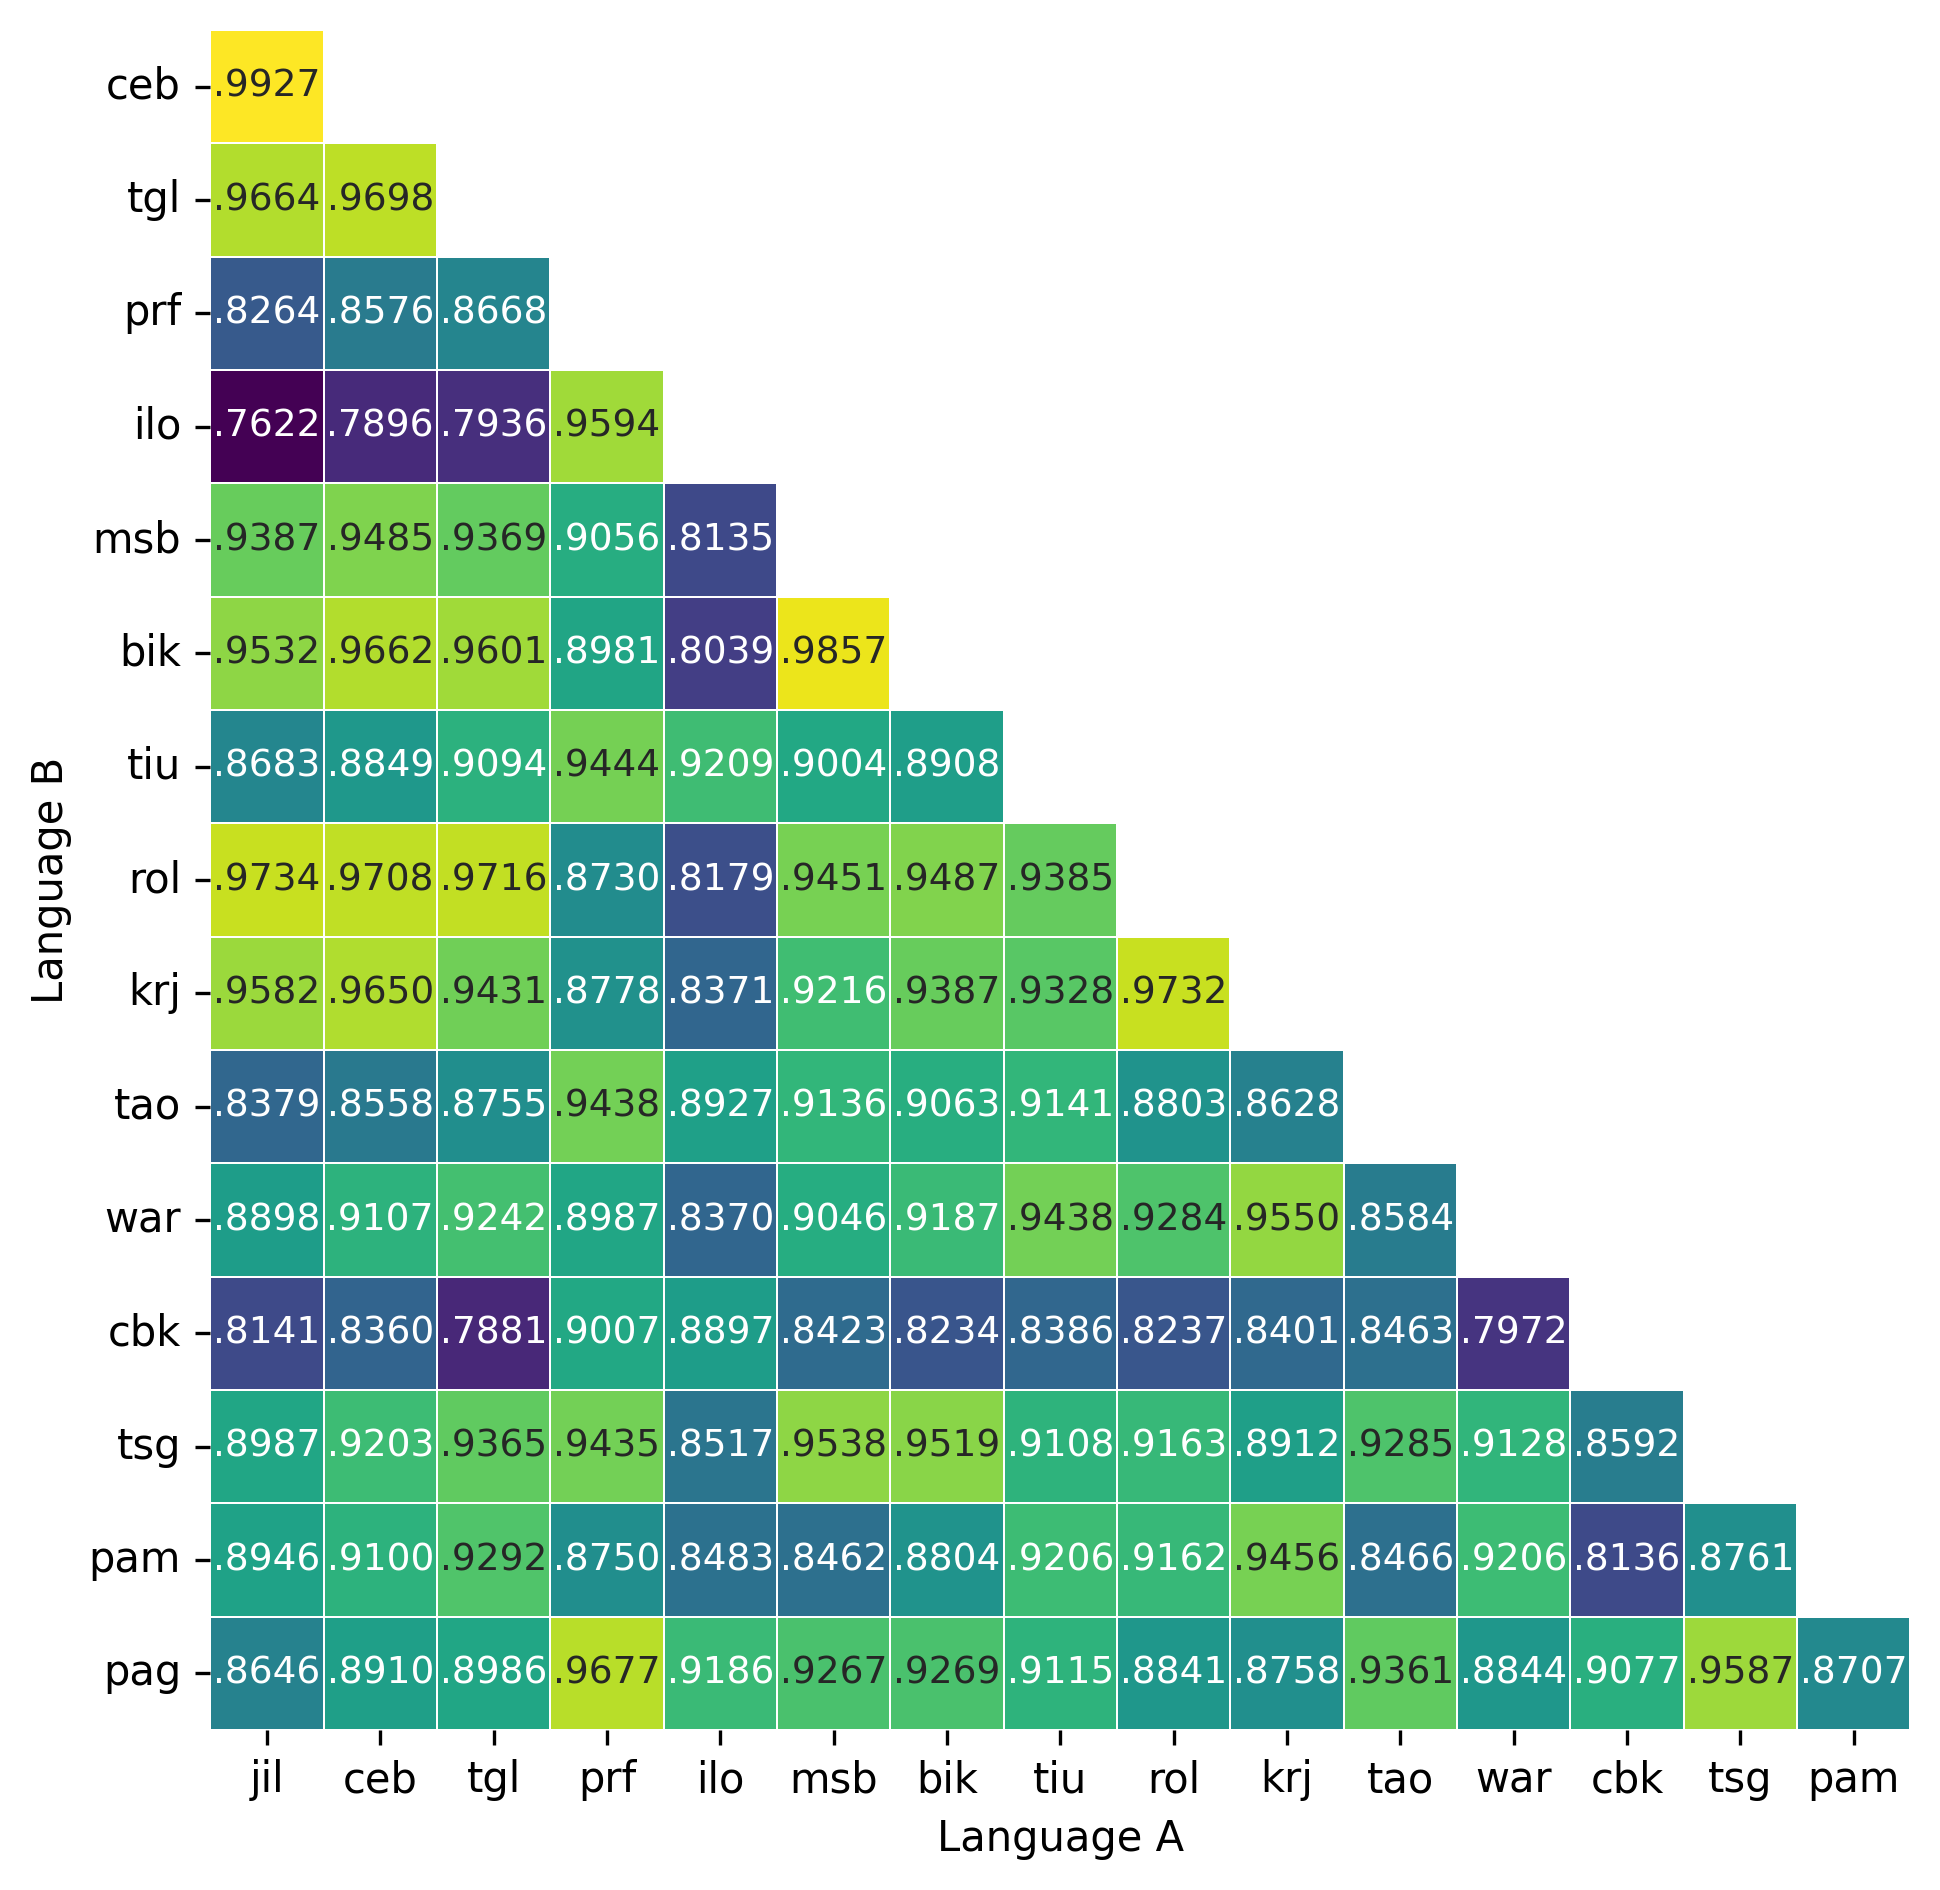
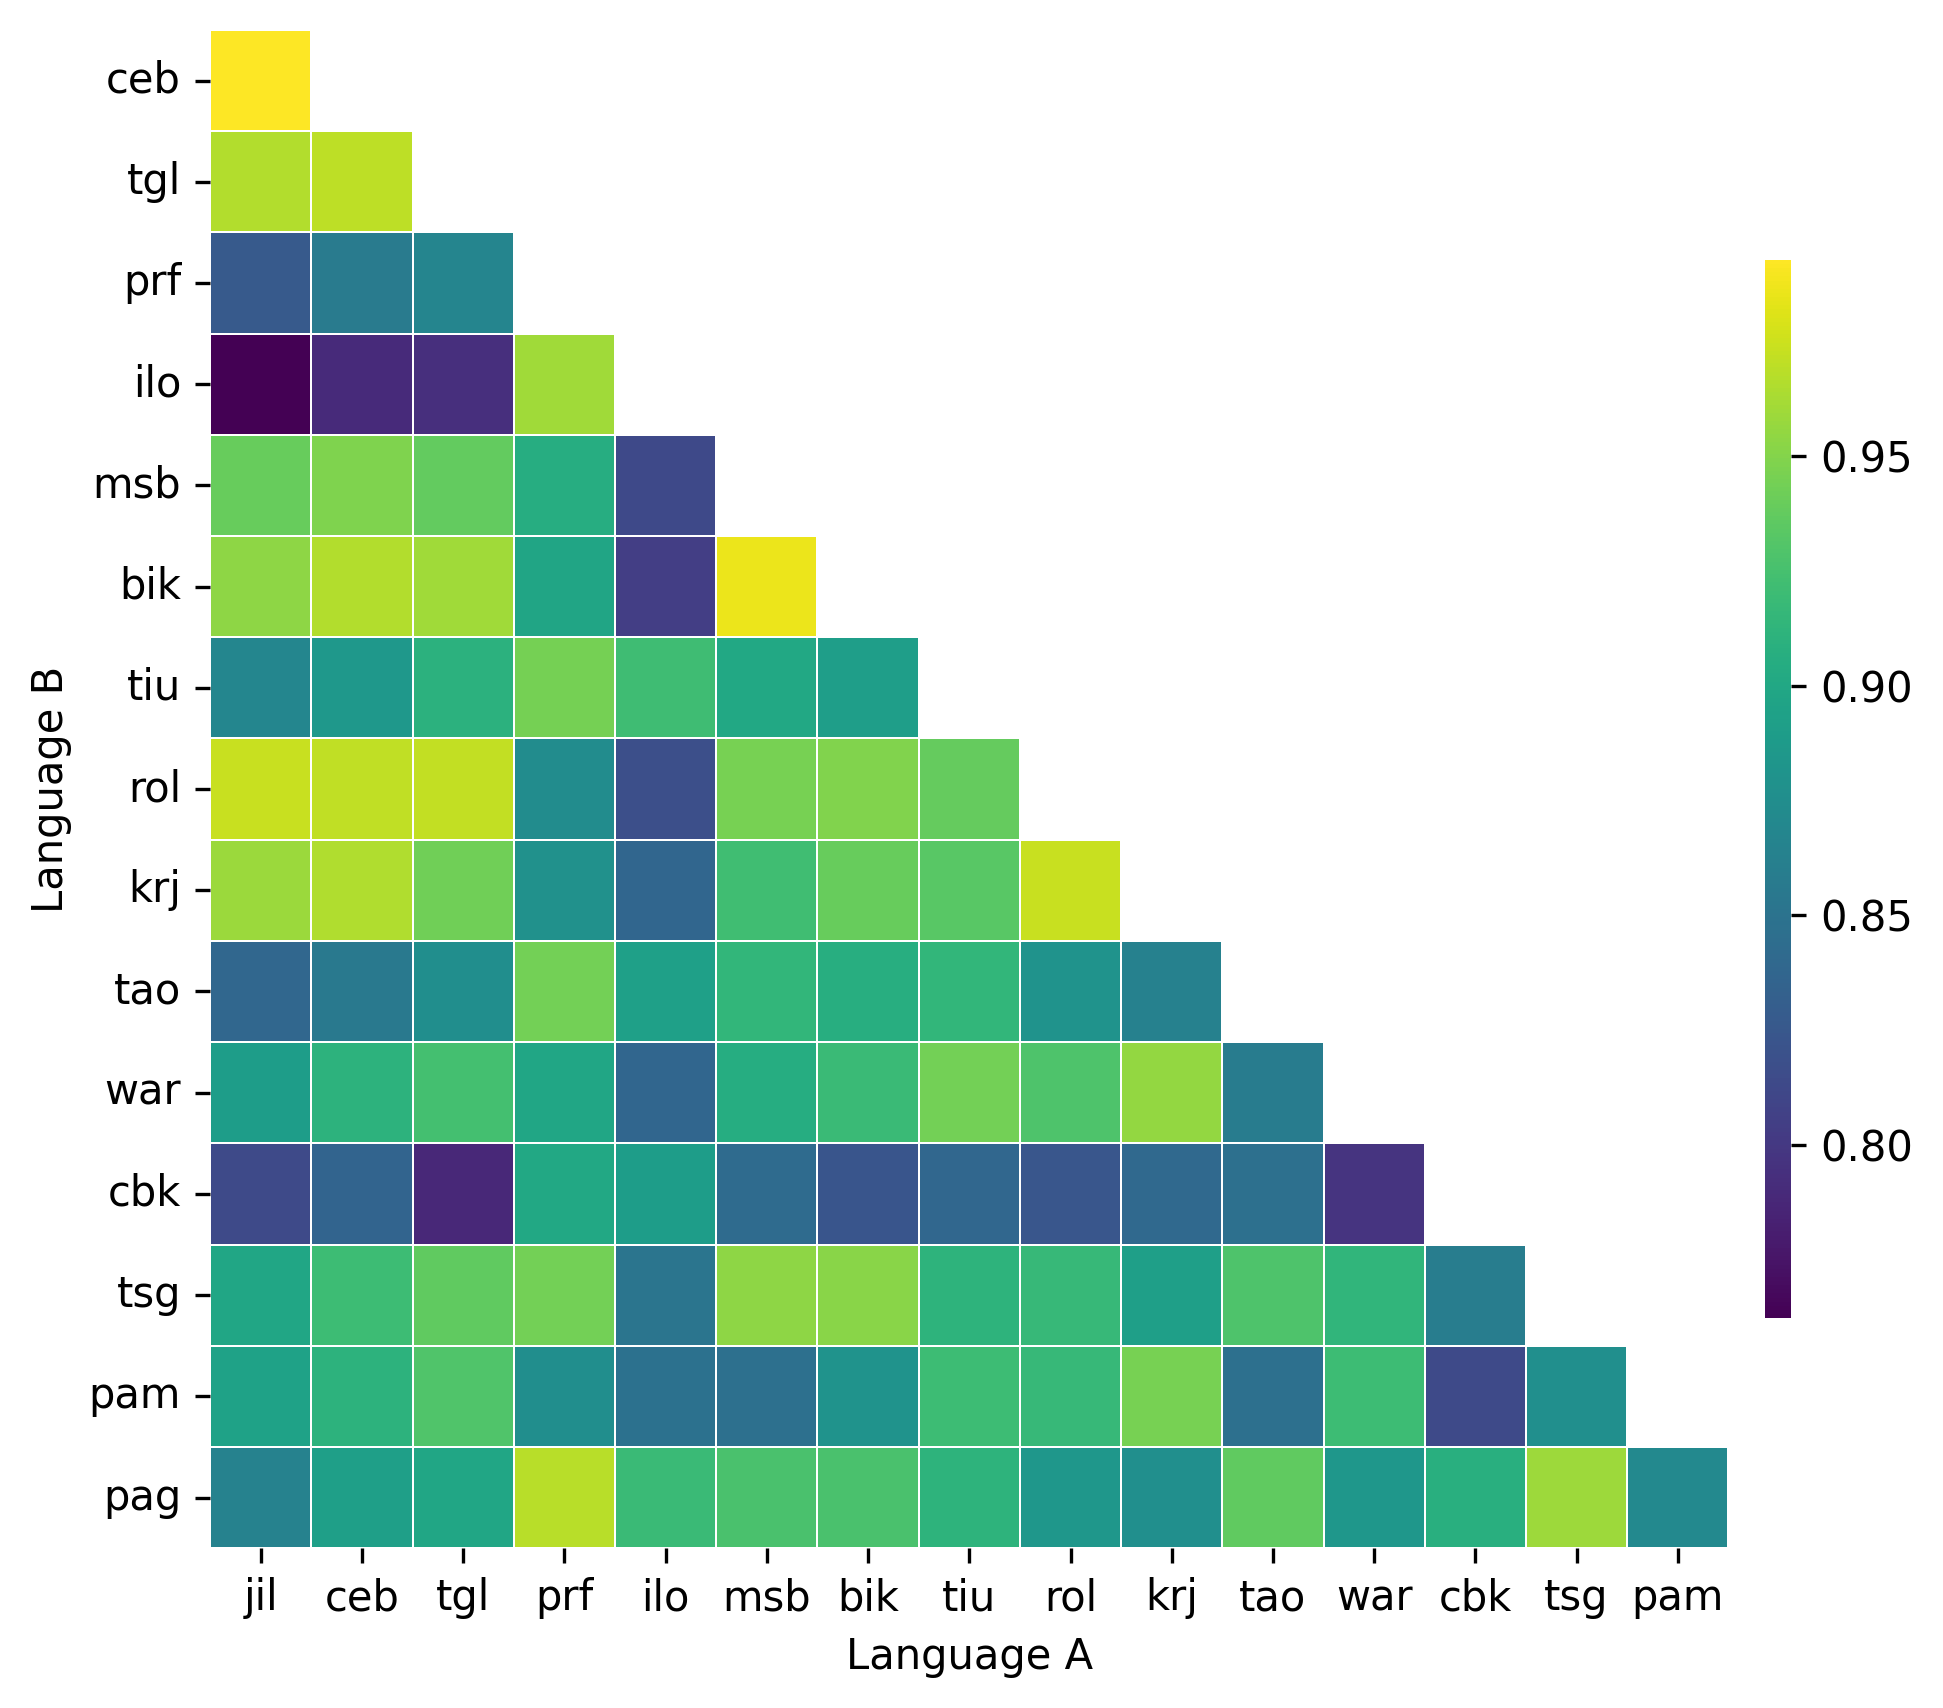
updated heatmap

diff --git a/language_similarity/similaritymatrix/orthographic_heatmap.py b/language_similarity/similaritymatrix/orthographic_heatmap.py
@@ -11,19 +11,15 @@ df = pd.read_csv('orthographic_similarity_matrix.tsv', sep='\t', index_col=0)
 # strict lower triangle carries information. Dropping the first row and last
 # column removes the two bands that the diagonal mask would leave empty, giving a
 # 15x15 staircase. Excluding the diagonal also frees the colour scale for the
-# values that vary, and lets each cell be labelled without a leading zero, which
-# is what keeps the annotations legible once the figure is scaled to a column.
+# values that vary rather than pinning it at the self-similarity of 1.0.
 df = df.iloc[1:, :-1]
 mask = np.triu(np.ones_like(df, dtype=bool), k=1)
 
-# ".3423" rather than "0.3423": every off-diagonal value is < 1, and dropping the
-# leading zero is what lets four decimal places fit the cell.
-labels = np.vectorize(lambda v: f'{v:.4f}'[1:])(df.values)
-
+# Values are read from the colour bar rather than printed in the cells.
 plt.figure(figsize=(7.0, 6.4))
-sns.heatmap(df, mask=mask, cmap='viridis', annot=labels, fmt='',
-            annot_kws={'size': 9}, linewidths=0.4, linecolor='white',
-            square=True, cbar=False)
+sns.heatmap(df, mask=mask, cmap='viridis', annot=False,
+            linewidths=0.4, linecolor='white', square=True,
+            cbar_kws={'shrink': 0.6, 'pad': 0.02, 'aspect': 40})
 
 plt.xlabel('Language A')
 plt.ylabel('Language B')

diff --git a/language_similarity/similaritymatrix/phonetic_heatmap.py b/language_similarity/similaritymatrix/phonetic_heatmap.py
@@ -11,19 +11,15 @@ df = pd.read_csv('phonetic_similarity_matrix.tsv', sep='\t', index_col=0)
 # strict lower triangle carries information. Dropping the first row and last
 # column removes the two bands that the diagonal mask would leave empty, giving a
 # 15x15 staircase. Excluding the diagonal also frees the colour scale for the
-# values that vary, and lets each cell be labelled without a leading zero, which
-# is what keeps the annotations legible once the figure is scaled to a column.
+# values that vary rather than pinning it at the self-similarity of 1.0.
 df = df.iloc[1:, :-1]
 mask = np.triu(np.ones_like(df, dtype=bool), k=1)
 
-# ".7622" rather than "0.7622": every off-diagonal value is < 1, and dropping the
-# leading zero is what lets four decimal places fit the cell.
-labels = np.vectorize(lambda v: f'{v:.4f}'[1:])(df.values)
-
+# Values are read from the colour bar rather than printed in the cells.
 plt.figure(figsize=(7.0, 6.4))
-sns.heatmap(df, mask=mask, cmap='viridis', annot=labels, fmt='',
-            annot_kws={'size': 9}, linewidths=0.4, linecolor='white',
-            square=True, cbar=False)
+sns.heatmap(df, mask=mask, cmap='viridis', annot=False,
+            linewidths=0.4, linecolor='white', square=True,
+            cbar_kws={'shrink': 0.6, 'pad': 0.02, 'aspect': 40})
 
 plt.xlabel('Language A')
 plt.ylabel('Language B')

diff --git a/language_similarity/docs/chapters/phonetic.tex b/language_similarity/docs/chapters/phonetic.tex
@@ -32,9 +32,9 @@ to 1 (identical phonetic distributions). The resulting matrix is visualized as a
     \includegraphics[width=\columnwidth]{chapters/artifacts/phonetic_heat_map.png}
     \caption{Phonetic Similarity Matrix using Double Metaphone encoding and
         cosine similarity. The matrix is symmetric and its diagonal is 1 by
-        construction, so only the strict lower triangle is shown. Cell values omit
-        the leading zero and are rounded to two decimal places; figures quoted in
-        the text are exact.}
+        construction, so only the strict lower triangle is shown; cell shade
+        encodes similarity per the colour bar, and figures quoted in the text are
+        exact.}
     \label{fig:phonetic_sim_matrix}
 \end{figure}
 

diff --git a/language_similarity/docs/chapters/orthographic.tex b/language_similarity/docs/chapters/orthographic.tex
@@ -26,9 +26,9 @@ similarity matrix presented in \cref{fig:ortho_sim_matrix}.
     \includegraphics[width=\columnwidth]{chapters/artifacts/orthographic_heat_map.png}
     \caption{Orthographic Similarity Matrix using the Jaccard similarity
         coefficient. The matrix is symmetric and its diagonal is 1 by
-        construction, so only the strict lower triangle is shown. Cell values omit
-        the leading zero and are rounded to two decimal places; figures quoted in
-        the text are exact.}
+        construction, so only the strict lower triangle is shown; cell shade
+        encodes similarity per the colour bar, and figures quoted in the text are
+        exact.}
     \label{fig:ortho_sim_matrix}
 \end{figure}
 
